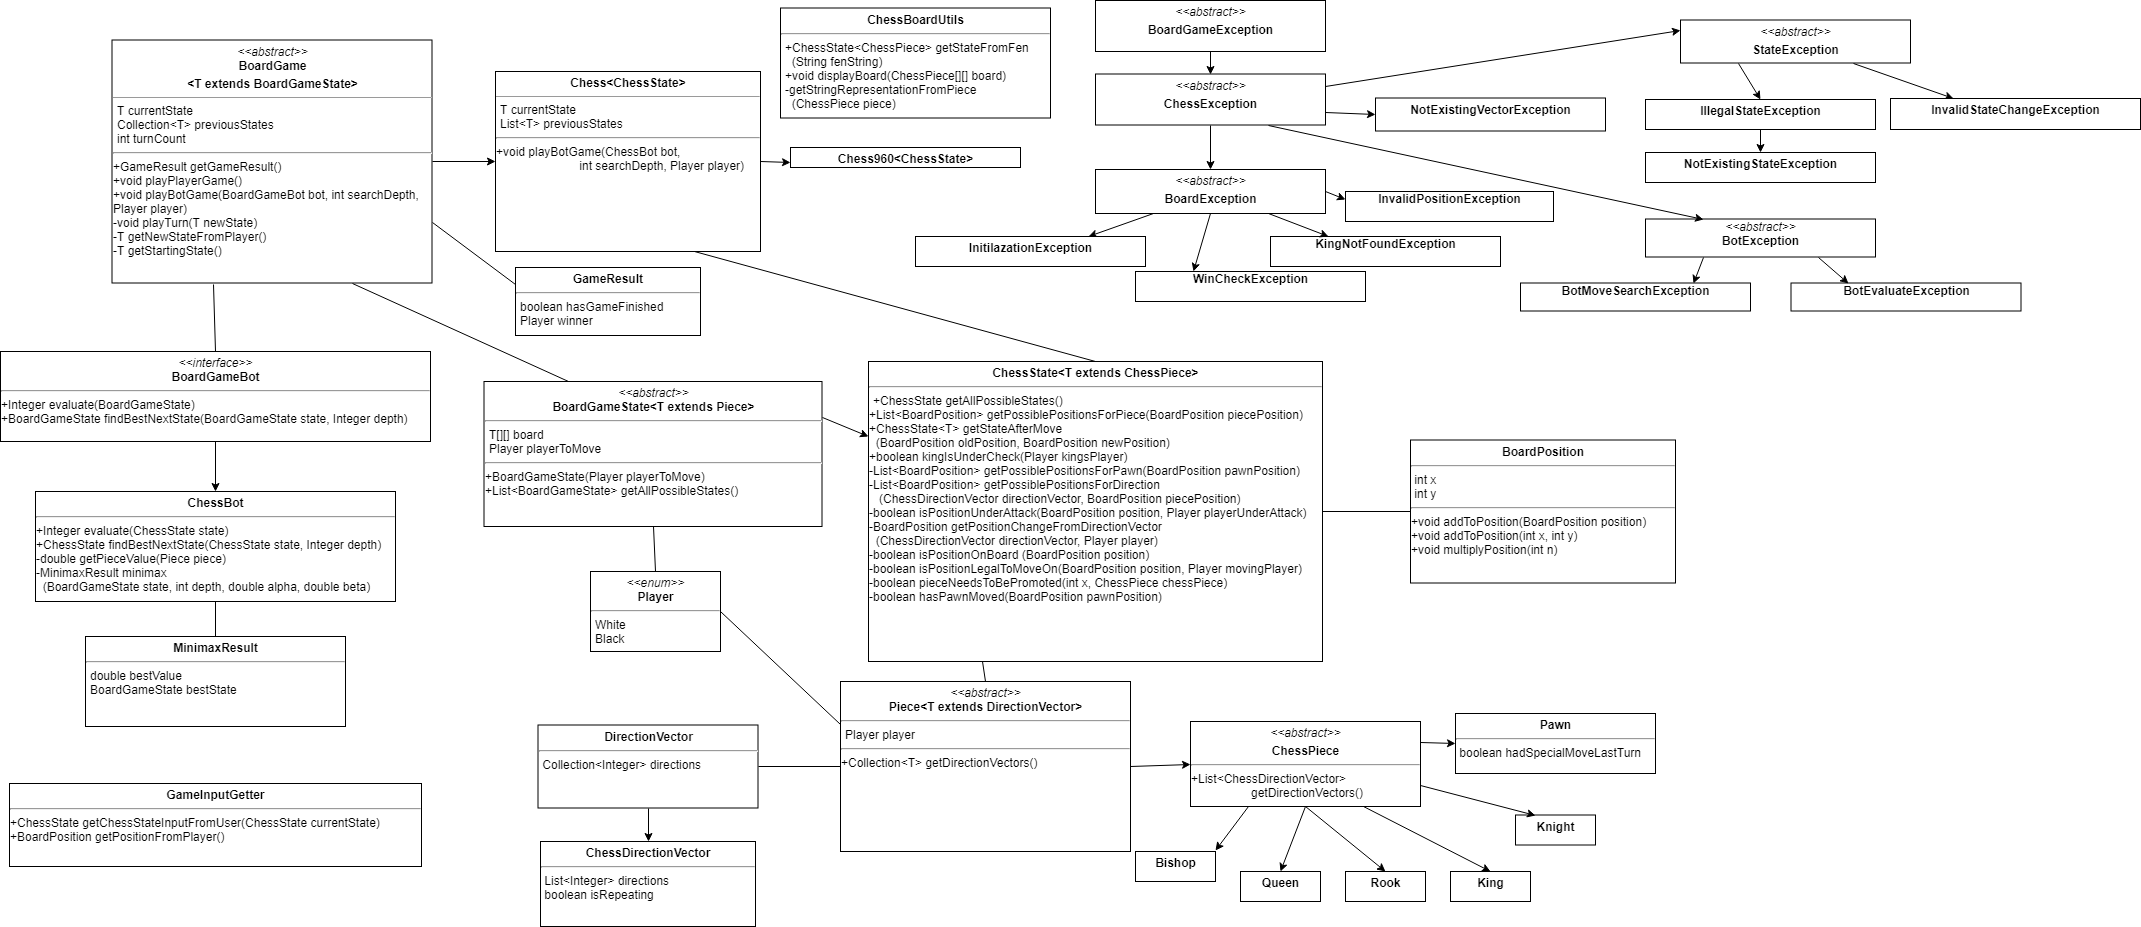
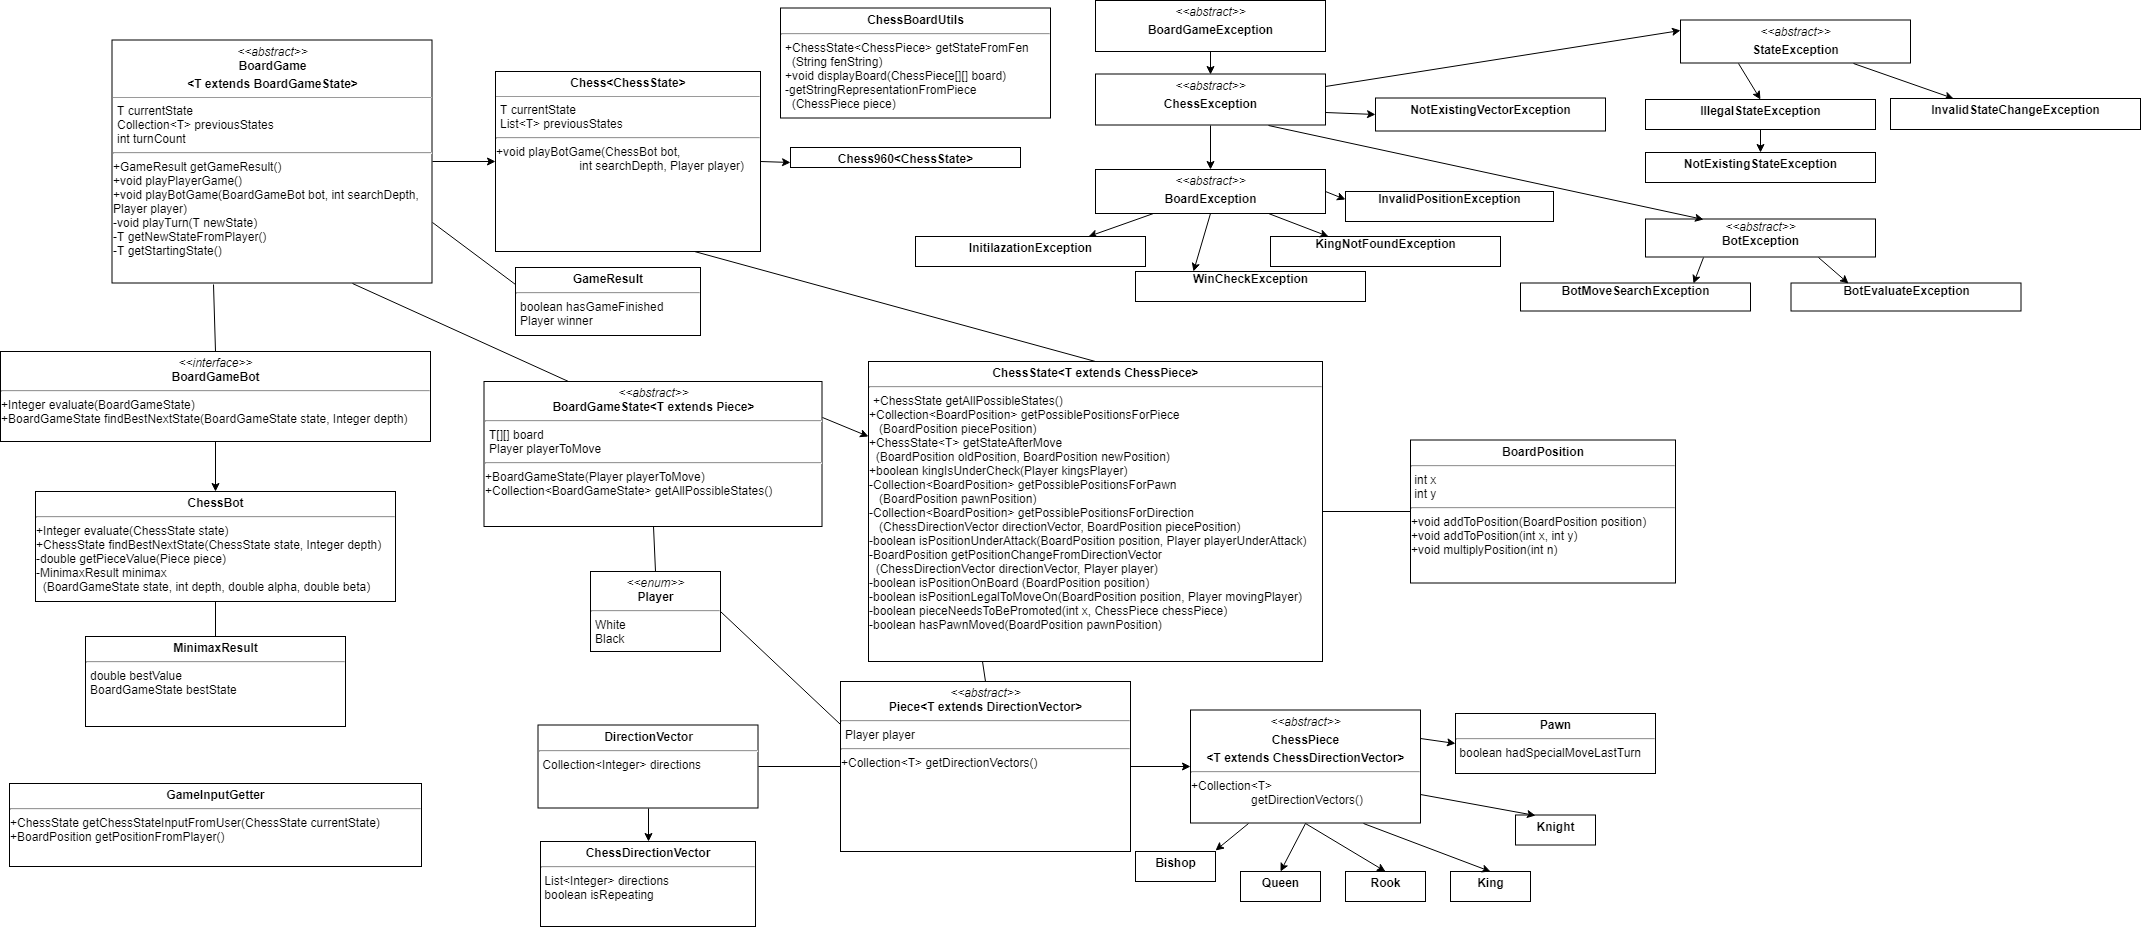
Changed all lists to collections, stopped using parent properties directly in Chess

diff --git a/src/main/java/gameStates/ChessState.java b/src/main/java/gameStates/ChessState.java
@@ -12,6 +12,7 @@ import pieces.chessPieces.Pawn;
 import pieces.chessPieces.Queen;
 
 import java.util.ArrayList;
+import java.util.Collection;
 import java.util.List;
 
 /**
@@ -34,9 +35,9 @@ public class ChessState<T extends ChessPiece> extends BoardGameState<T>
        Returns all states that are possible after this state
     */
     @Override
-    public List<BoardGameState<T>> getAllPossibleStates() throws BoardGameException
+    public Collection<BoardGameState<T>> getAllPossibleStates() throws BoardGameException
     {
-        ArrayList<BoardGameState<T>> possibleStates = new ArrayList<BoardGameState<T>>();
+        Collection<BoardGameState<T>> possibleStates = new ArrayList<BoardGameState<T>>();
         
         for(int x = 0; x < getBoard().length; x++)
         {
@@ -46,7 +47,7 @@ public class ChessState<T extends ChessPiece> extends BoardGameState<T>
                 if (piece != null && piece.getPlayer() == getPlayerToMove())
                 {
                     BoardPosition piecePosition = new BoardPosition(x, y);
-                    List<BoardPosition> possiblePositions = getPossiblePositionsForPiece(piecePosition);
+                    Collection<BoardPosition> possiblePositions = getPossiblePositionsForPiece(piecePosition);
                     for(BoardPosition possiblePosition : possiblePositions)
                     {
                         ChessState<T> newState = getStateAfterMove(piecePosition, possiblePosition);
@@ -65,7 +66,7 @@ public class ChessState<T extends ChessPiece> extends BoardGameState<T>
     /*
         Returns all possible board positions for a single piece (including positions that cause checks)
      */
-    public List<BoardPosition> getPossiblePositionsForPiece(BoardPosition piecePosition) throws InvalidPositionException
+    public Collection<BoardPosition> getPossiblePositionsForPiece(BoardPosition piecePosition) throws InvalidPositionException
     {
         int x = piecePosition.getX(), y = piecePosition.getY();
 
@@ -80,8 +81,8 @@ public class ChessState<T extends ChessPiece> extends BoardGameState<T>
             return getPossiblePositionsForPawn(piecePosition);
         }
 
-        List<BoardPosition> possiblePositions = new ArrayList<BoardPosition>();
-        for (ChessDirectionVector directionVector : (List<ChessDirectionVector>)piece.getDirectionVectors())
+        Collection<BoardPosition> possiblePositions = new ArrayList<BoardPosition>();
+        for (ChessDirectionVector directionVector : (Collection<ChessDirectionVector>)piece.getDirectionVectors())
         {
             possiblePositions.addAll(getPossiblePositionsForDirection(directionVector, piecePosition));
         }
@@ -144,7 +145,7 @@ public class ChessState<T extends ChessPiece> extends BoardGameState<T>
     /*
         Gets all possible positions for the pawn on the given position (including moves that cause a check)
      */
-    private List<BoardPosition> getPossiblePositionsForPawn(BoardPosition pawnPosition) throws InvalidPositionException
+    private Collection<BoardPosition> getPossiblePositionsForPawn(BoardPosition pawnPosition) throws InvalidPositionException
     {
         int x = pawnPosition.getX(), y = pawnPosition.getY();
 
@@ -154,7 +155,7 @@ public class ChessState<T extends ChessPiece> extends BoardGameState<T>
         }
 
         Pawn pawn = (Pawn)getBoard()[x][y];
-        List<BoardPosition> possiblePositions = new ArrayList<BoardPosition>();
+        Collection<BoardPosition> possiblePositions = new ArrayList<BoardPosition>();
         for (ChessDirectionVector directionVector : pawn.getDirectionVectors())
         {
             BoardPosition positionChange = getPositionChangeFromDirectionVector(directionVector, pawn.getPlayer());
@@ -194,10 +195,10 @@ public class ChessState<T extends ChessPiece> extends BoardGameState<T>
     /*
         Given a direction and position piece, returns all possible positions for the piece using this direction
      */
-    private List<BoardPosition> getPossiblePositionsForDirection(ChessDirectionVector directionVector, BoardPosition piecePosition)
+    private Collection<BoardPosition> getPossiblePositionsForDirection(ChessDirectionVector directionVector, BoardPosition piecePosition)
     {
         T piece = getPieceByPosition(piecePosition);
-        List<BoardPosition> possiblePositions = new ArrayList<BoardPosition>();
+        Collection<BoardPosition> possiblePositions = new ArrayList<BoardPosition>();
         BoardPosition positionChange = getPositionChangeFromDirectionVector(directionVector, piece.getPlayer());
 
         BoardPosition newPosition = new BoardPosition(piecePosition);
@@ -258,7 +259,7 @@ public class ChessState<T extends ChessPiece> extends BoardGameState<T>
                 if (piece != null && piece.getPlayer() != playerUnderAttack)
                 {
                     BoardPosition piecePosition = new BoardPosition(x, y);
-                    List<BoardPosition> possiblePositions = getPossiblePositionsForPiece(piecePosition);
+                    Collection<BoardPosition> possiblePositions = getPossiblePositionsForPiece(piecePosition);
                     if(possiblePositions.contains(position))
                     {
                         return true;

diff --git a/src/main/java/boardgame/Chess.java b/src/main/java/boardgame/Chess.java
@@ -11,7 +11,7 @@ import ui.GameInputGetter;
 import utils.ChessBoardUtils;
 
 import java.util.ArrayList;
-import java.util.List;
+import java.util.Collection;
 
 /**
  * Created by divided on 19.03.2018.
@@ -25,7 +25,7 @@ public class Chess<T extends ChessState> extends BoardGame
     public Chess()
     {
         super();
-        previousStates = new ArrayList<ChessState>();
+        setPreviousStates(new ArrayList<ChessState>());
     }
 
     /*
@@ -38,10 +38,10 @@ public class Chess<T extends ChessState> extends BoardGame
         GameResult gameResult = getGameResult();
         while(!(gameResult.isGameFinished()))
         {
-            ChessBoardUtils.displayBoard((ChessPiece[][]) currentState.getBoard());
-            previousStates.add(currentState);
-            currentState = getNewStateFromPlayer();
-            turnCount++;
+            ChessBoardUtils.displayBoard((ChessPiece[][]) getCurrentState().getBoard());
+            getPreviousStates().add(getCurrentState());
+            setCurrentState(getNewStateFromPlayer());
+            setTurnCount(getTurnCount() + 1);
             gameResult = getGameResult();
         }
 
@@ -65,18 +65,18 @@ public class Chess<T extends ChessState> extends BoardGame
         GameResult gameResult = getGameResult();
         while(!(gameResult.isGameFinished()))
         {
-            ChessBoardUtils.displayBoard((ChessPiece[][]) currentState.getBoard());
-            previousStates.add(currentState);
-            if(currentState.getPlayerToMove() == player)
+            ChessBoardUtils.displayBoard((ChessPiece[][]) getCurrentState().getBoard());
+            getPreviousStates().add(getCurrentState());
+            if(getCurrentState().getPlayerToMove() == player)
             {
-                currentState = getNewStateFromPlayer();
+                setCurrentState(getNewStateFromPlayer());
             }
             else
             {
-                currentState = bot.findBestNextState(currentState, searchDepth);
+                setCurrentState(bot.findBestNextState(getCurrentState(), searchDepth));
             }
 
-            turnCount++;
+            setTurnCount(getTurnCount() + 1);
             gameResult = getGameResult();
         }
 
@@ -103,13 +103,13 @@ public class Chess<T extends ChessState> extends BoardGame
     @Override
     protected GameResult getGameResult() throws BoardGameException
     {
-        List<T> possibleStates = currentState.getAllPossibleStates();
+        Collection<T> possibleStates = currentState.getAllPossibleStates();
         if (possibleStates.isEmpty())
         {
-            if(((T)currentState).kingIsUnderCheck(currentState.getPlayerToMove()))
+            if(((T)getCurrentState()).kingIsUnderCheck(getCurrentState().getPlayerToMove()))
             {
                 Player winner;
-                if(currentState.getPlayerToMove() == Player.WHITE)
+                if(getCurrentState().getPlayerToMove() == Player.WHITE)
                 {
                     winner = Player.BLACK;
                 }
@@ -140,7 +140,7 @@ public class Chess<T extends ChessState> extends BoardGame
         T newState;
         try
         {
-            newState = (T) inputGetter.getChessStateInputFromUser((T) currentState);
+            newState = (T) inputGetter.getChessStateInputFromUser((T) getCurrentState());
         }
         catch (BoardGameException e)
         {

diff --git a/src/main/java/boardgame/BoardGame.java b/src/main/java/boardgame/BoardGame.java
@@ -47,4 +47,34 @@ public abstract class BoardGame<T extends BoardGameState>
         Gets new state from the player
      */
     protected abstract T getNewStateFromPlayer() throws BoardGameException;
+
+    public T getCurrentState()
+    {
+        return currentState;
+    }
+
+    public Collection<T> getPreviousStates()
+    {
+        return previousStates;
+    }
+
+    public int getTurnCount()
+    {
+        return turnCount;
+    }
+
+    public void setCurrentState(T currentState)
+    {
+        this.currentState = currentState;
+    }
+
+    public void setPreviousStates(Collection<T> previousStates)
+    {
+        this.previousStates = previousStates;
+    }
+
+    public void setTurnCount(int turnCount)
+    {
+        this.turnCount = turnCount;
+    }
 }

diff --git a/src/main/java/ui/GameInputGetter.java b/src/main/java/ui/GameInputGetter.java
@@ -4,6 +4,7 @@ import boardgame.BoardPosition;
 import exceptions.BoardGameException;
 import gameStates.ChessState;
 
+import java.util.ArrayList;
 import java.util.List;
 import java.util.Scanner;
 
@@ -19,7 +20,9 @@ public class GameInputGetter
     {
         System.out.println("Enter position of piece to move: ");
         BoardPosition piecePosition = getPositionFromPlayer();
-        List<BoardPosition> possiblePositions = currentState.getPossiblePositionsForPiece(piecePosition);
+        List<BoardPosition> possiblePositions = new ArrayList<BoardPosition>();
+        possiblePositions.addAll(currentState.getPossiblePositionsForPiece(piecePosition));
+
 
         for(int i = 0; i < possiblePositions.size(); i++)
         {

diff --git a/src/main/java/gameStates/BoardGameState.java b/src/main/java/gameStates/BoardGameState.java
@@ -4,7 +4,7 @@ import enums.Player;
 import exceptions.BoardGameException;
 import pieces.Piece;
 
-import java.util.List;
+import java.util.Collection;
 
 /**
  * Created by divided on 19.03.2018.
@@ -34,7 +34,7 @@ public abstract class BoardGameState<T extends Piece>
     /*
         Returns all states that are possible after this state
      */
-    public abstract List<BoardGameState<T>> getAllPossibleStates() throws BoardGameException;
+    public abstract Collection<BoardGameState<T>> getAllPossibleStates() throws BoardGameException;
 
     public T[][] getBoard()
     {

diff --git a/src/main/java/pieces/chessPieces/Bishop.java b/src/main/java/pieces/chessPieces/Bishop.java
@@ -4,6 +4,7 @@ import directionVectors.ChessDirectionVector;
 import enums.Player;
 
 import java.util.ArrayList;
+import java.util.Collection;
 import java.util.List;
 
 /**
@@ -27,7 +28,7 @@ public class Bishop extends ChessPiece
     }
 
     @Override
-    public List<ChessDirectionVector> getDirectionVectors()
+    public Collection<ChessDirectionVector> getDirectionVectors()
     {
         return chessDirectionVectors;
     }

diff --git a/src/main/java/pieces/chessPieces/Knight.java b/src/main/java/pieces/chessPieces/Knight.java
@@ -4,6 +4,7 @@ import directionVectors.ChessDirectionVector;
 import enums.Player;
 
 import java.util.ArrayList;
+import java.util.Collection;
 import java.util.List;
 
 /**
@@ -34,7 +35,7 @@ public class Knight extends ChessPiece
     }
 
     @Override
-    public List<ChessDirectionVector> getDirectionVectors()
+    public Collection<ChessDirectionVector> getDirectionVectors()
     {
         return chessDirectionVectors;
     }

diff --git a/src/main/java/pieces/chessPieces/Pawn.java b/src/main/java/pieces/chessPieces/Pawn.java
@@ -4,6 +4,7 @@ import directionVectors.ChessDirectionVector;
 import enums.Player;
 
 import java.util.ArrayList;
+import java.util.Collection;
 import java.util.List;
 
 /**
@@ -34,7 +35,7 @@ public class Pawn extends ChessPiece
     };
 
     @Override
-    public List<ChessDirectionVector> getDirectionVectors()
+    public Collection<ChessDirectionVector> getDirectionVectors()
     {
         return chessDirectionVectors;
     }

diff --git a/src/main/java/pieces/chessPieces/Queen.java b/src/main/java/pieces/chessPieces/Queen.java
@@ -4,6 +4,7 @@ import directionVectors.ChessDirectionVector;
 import enums.Player;
 
 import java.util.ArrayList;
+import java.util.Collection;
 import java.util.List;
 
 /**
@@ -32,7 +33,7 @@ public class Queen extends ChessPiece
     }
 
     @Override
-    public List<ChessDirectionVector> getDirectionVectors()
+    public Collection<ChessDirectionVector> getDirectionVectors()
     {
         return chessDirectionVectors;
     }

diff --git a/src/main/java/pieces/chessPieces/King.java b/src/main/java/pieces/chessPieces/King.java
@@ -4,6 +4,7 @@ import directionVectors.ChessDirectionVector;
 import enums.Player;
 
 import java.util.ArrayList;
+import java.util.Collection;
 import java.util.List;
 
 /**
@@ -33,7 +34,7 @@ public class King extends ChessPiece
     }
 
     @Override
-    public List<ChessDirectionVector> getDirectionVectors()
+    public Collection<ChessDirectionVector> getDirectionVectors()
     {
         return chessDirectionVectors;
     }

diff --git a/src/main/java/pieces/chessPieces/Rook.java b/src/main/java/pieces/chessPieces/Rook.java
@@ -4,6 +4,7 @@ import directionVectors.ChessDirectionVector;
 import enums.Player;
 
 import java.util.ArrayList;
+import java.util.Collection;
 import java.util.List;
 
 /**
@@ -27,7 +28,7 @@ public class Rook extends ChessPiece
     }
 
     @Override
-    public List<ChessDirectionVector> getDirectionVectors()
+    public Collection<ChessDirectionVector> getDirectionVectors()
     {
         return chessDirectionVectors;
     }

diff --git a/src/main/java/pieces/Piece.java b/src/main/java/pieces/Piece.java
@@ -3,6 +3,7 @@ package pieces;
 import directionVectors.DirectionVector;
 import enums.Player;
 
+import java.util.Collection;
 import java.util.List;
 
 /**
@@ -22,7 +23,7 @@ public abstract class Piece<T extends DirectionVector>
         this.player = piece.player;
     }
 
-    public abstract List<T> getDirectionVectors();
+    public abstract Collection<T> getDirectionVectors();
 
     public Player getPlayer()
     {
